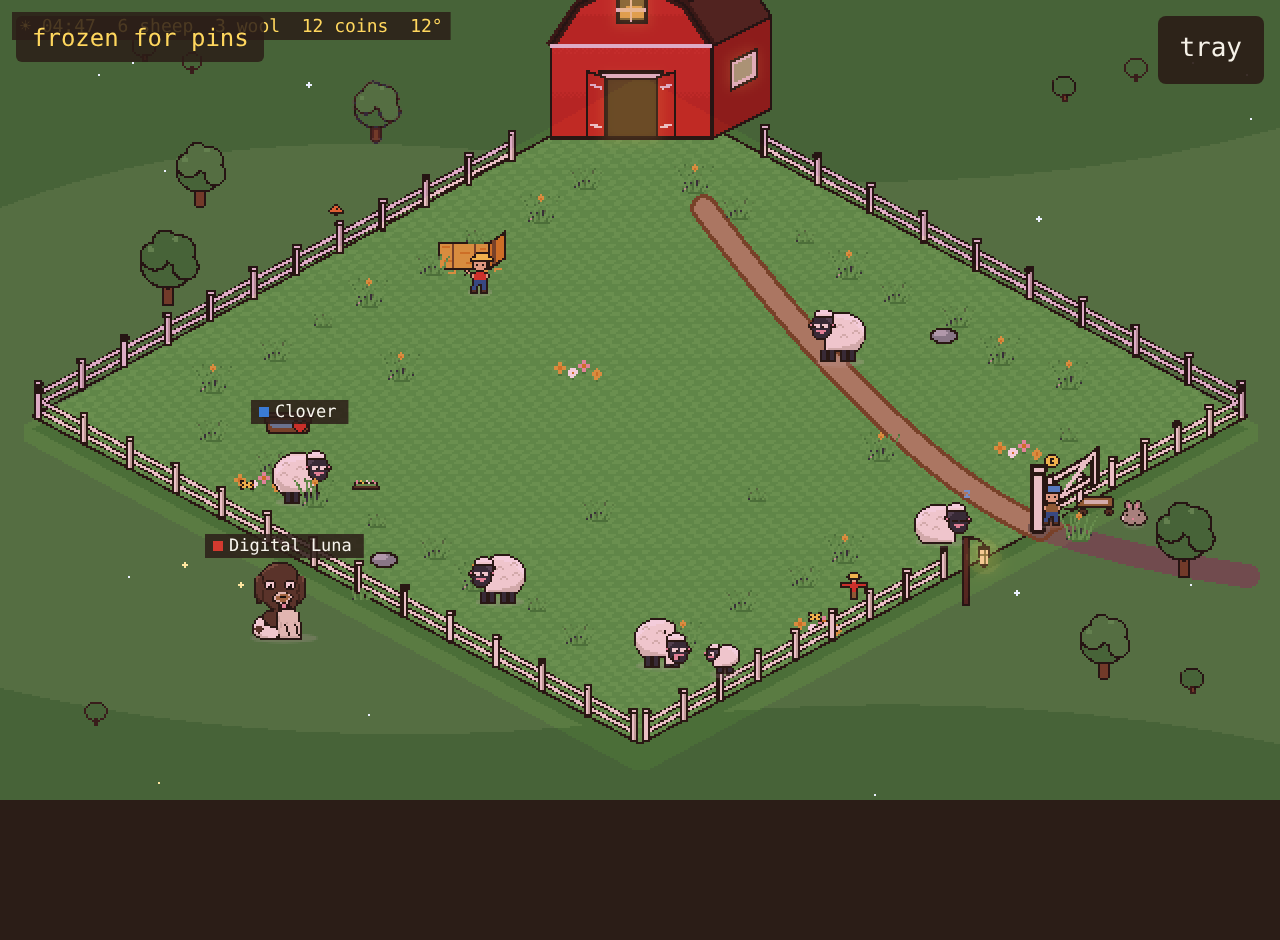
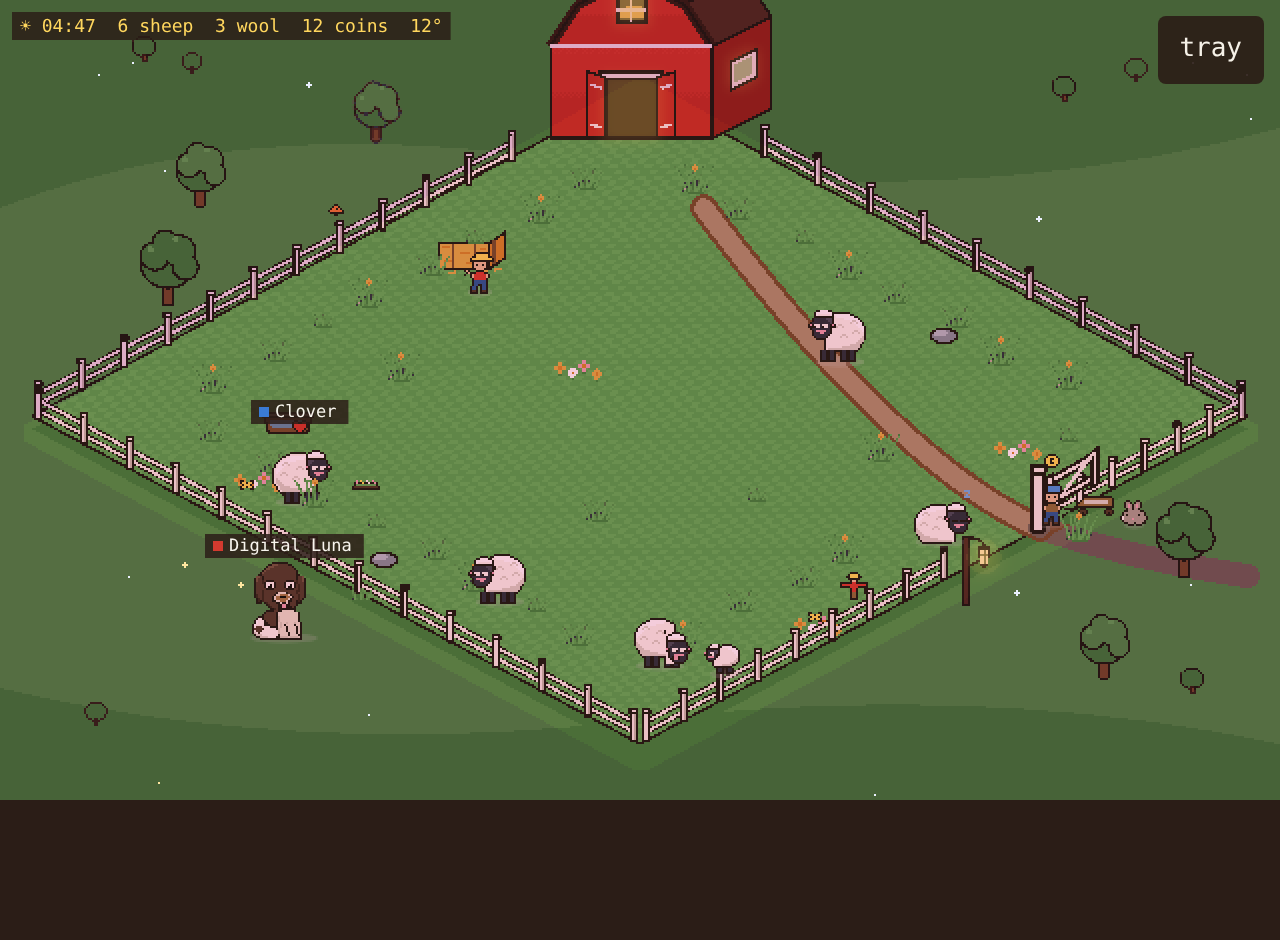
client: Verifier fixes for #24 (badge placement, stills, season param)
- Landscape: the "frozen for pins" badge stays top-right, below the tray
  toggle, instead of moving over the HUD readout at the top left.
- ?now= stills no longer set game.frozen, so they do not carry the badge;
  switching pins on still freezes and shows it.
- bootIntents sends setSeason only when the URL has ?season=, not for
  ?weather= alone.
- Regenerated the six desktop stills (no badge in them now); phone shots
  are unchanged.

Claude-Session: https://claude.ai/code/session_01Q7HsUjbWsdCM89DZwhrbqN

Changed region(s): [[0.0, 0.0, 0.2188, 0.0926]]

diff --git a/apps/web/src/main.ts b/apps/web/src/main.ts
@@ -49,7 +49,8 @@ function bootIntents(search: string): ClientIntent[] {
   const out: ClientIntent[] = [];
   if (q.has('t')) out.push({ type: 'setClock', t: p.t });
   if (q.has('weather')) out.push({ type: 'setWeather', weather: p.weather });
-  if (q.has('season') || q.has('weather')) out.push({ type: 'setSeason', season: p.season });
+  // Only an explicit ?season= pins the season; ?weather= alone leaves the sim's seasonal mode as is.
+  if (q.has('season')) out.push({ type: 'setSeason', season: p.season });
   if (p.freeze) out.push({ type: 'pauseClock', paused: true });
   return out;
 }
@@ -77,9 +78,9 @@ async function main(): Promise<void> {
   const fixed = params.now !== null;
   const game = new Game({ seed: params.seed, liveWeather: params.liveWeather, boot: bootIntents(location.search), onMoment: emitMoment });
   // A fixed render clock is a still for goldens: the fixture exactly as the URL says, no sim.
+  // A still never runs a frame, so it is not "frozen for pins" unless pins are switched on.
   let still: FarmView | null = null;
   if (params.now !== null) {
-    game.frozen = true;
     game.renderNow = params.now;
     still = buildFixture(params, params.now);
   }
@@ -119,7 +120,7 @@ async function main(): Promise<void> {
       view: currentView,
       sizes: () => sizes,
       setFrozen: (f) => {
-        if (!fixed) game.frozen = f;
+        game.frozen = f;
       },
       isFrozen: () => game.frozen,
     },

diff --git a/apps/web/index.html b/apps/web/index.html
@@ -274,9 +274,9 @@
           width: min(100vw, calc(100vh * 1.6));
           height: min(100vh, calc(100vw / 1.6));
         }
+        /* Below the tray toggle, clear of the HUD readout at the top left. */
         #frozen {
-          right: auto;
-          left: 8px;
+          top: 44px;
         }
         #trayToggle {
           display: block;
